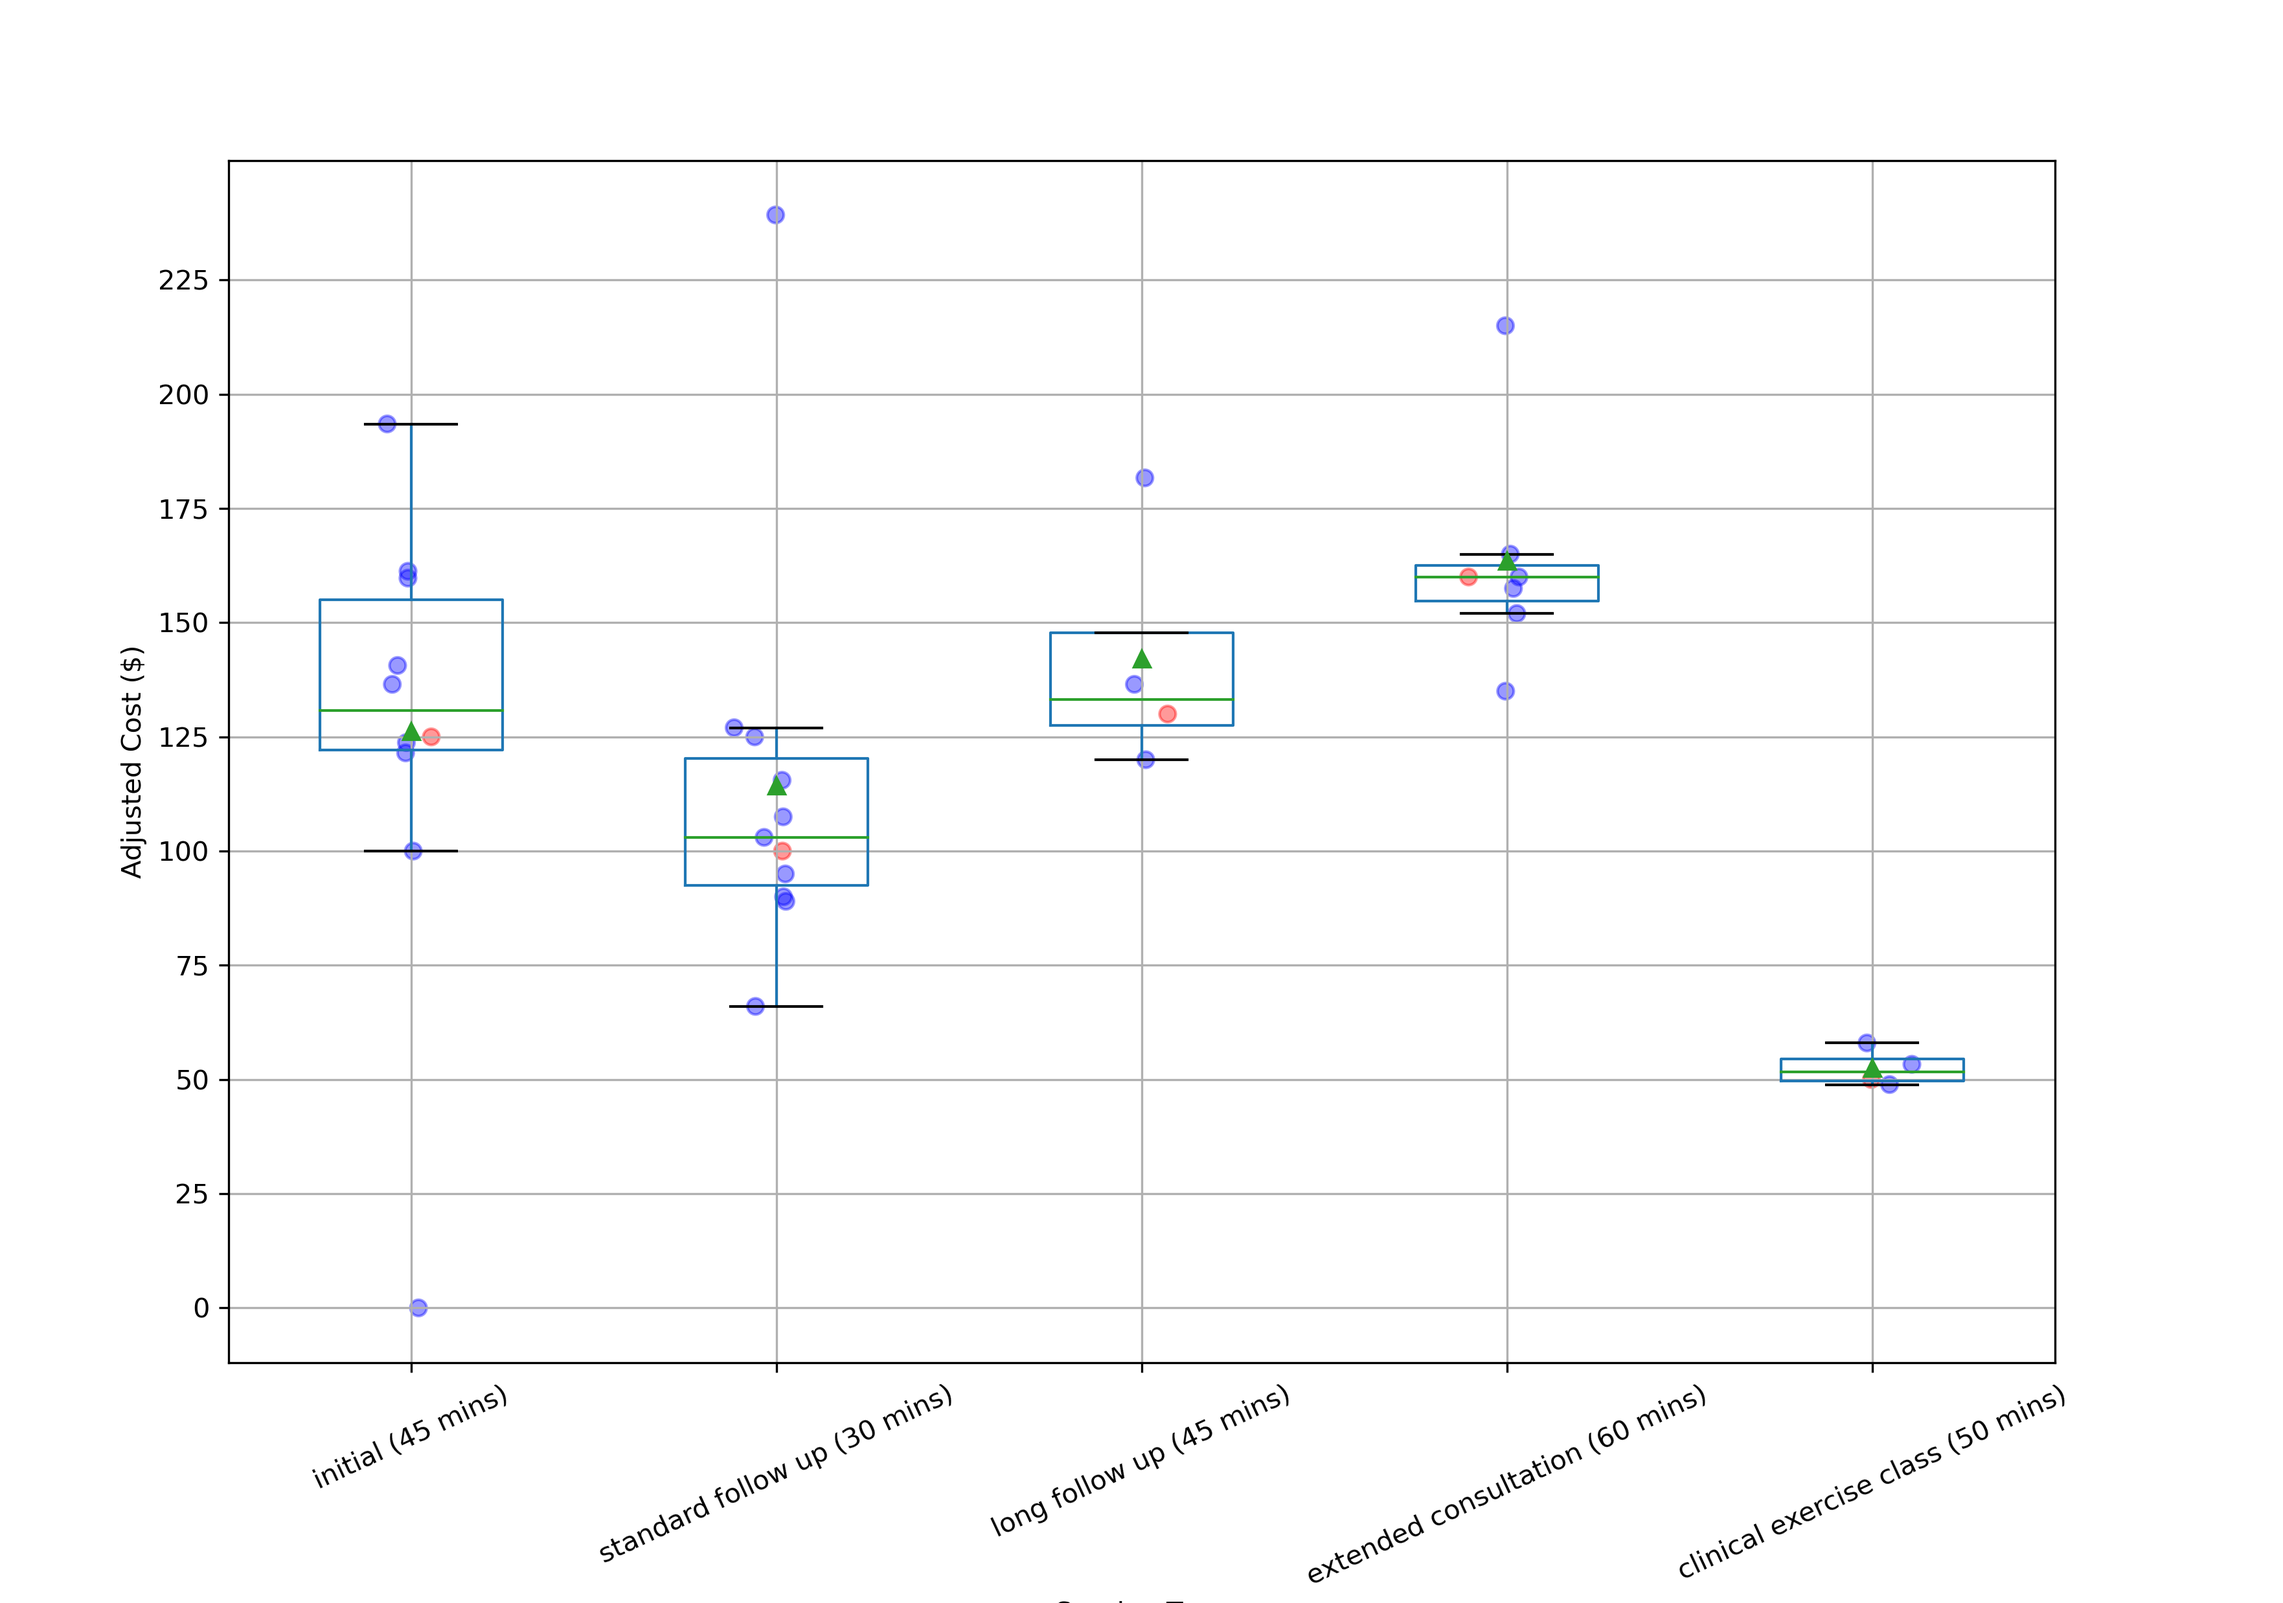
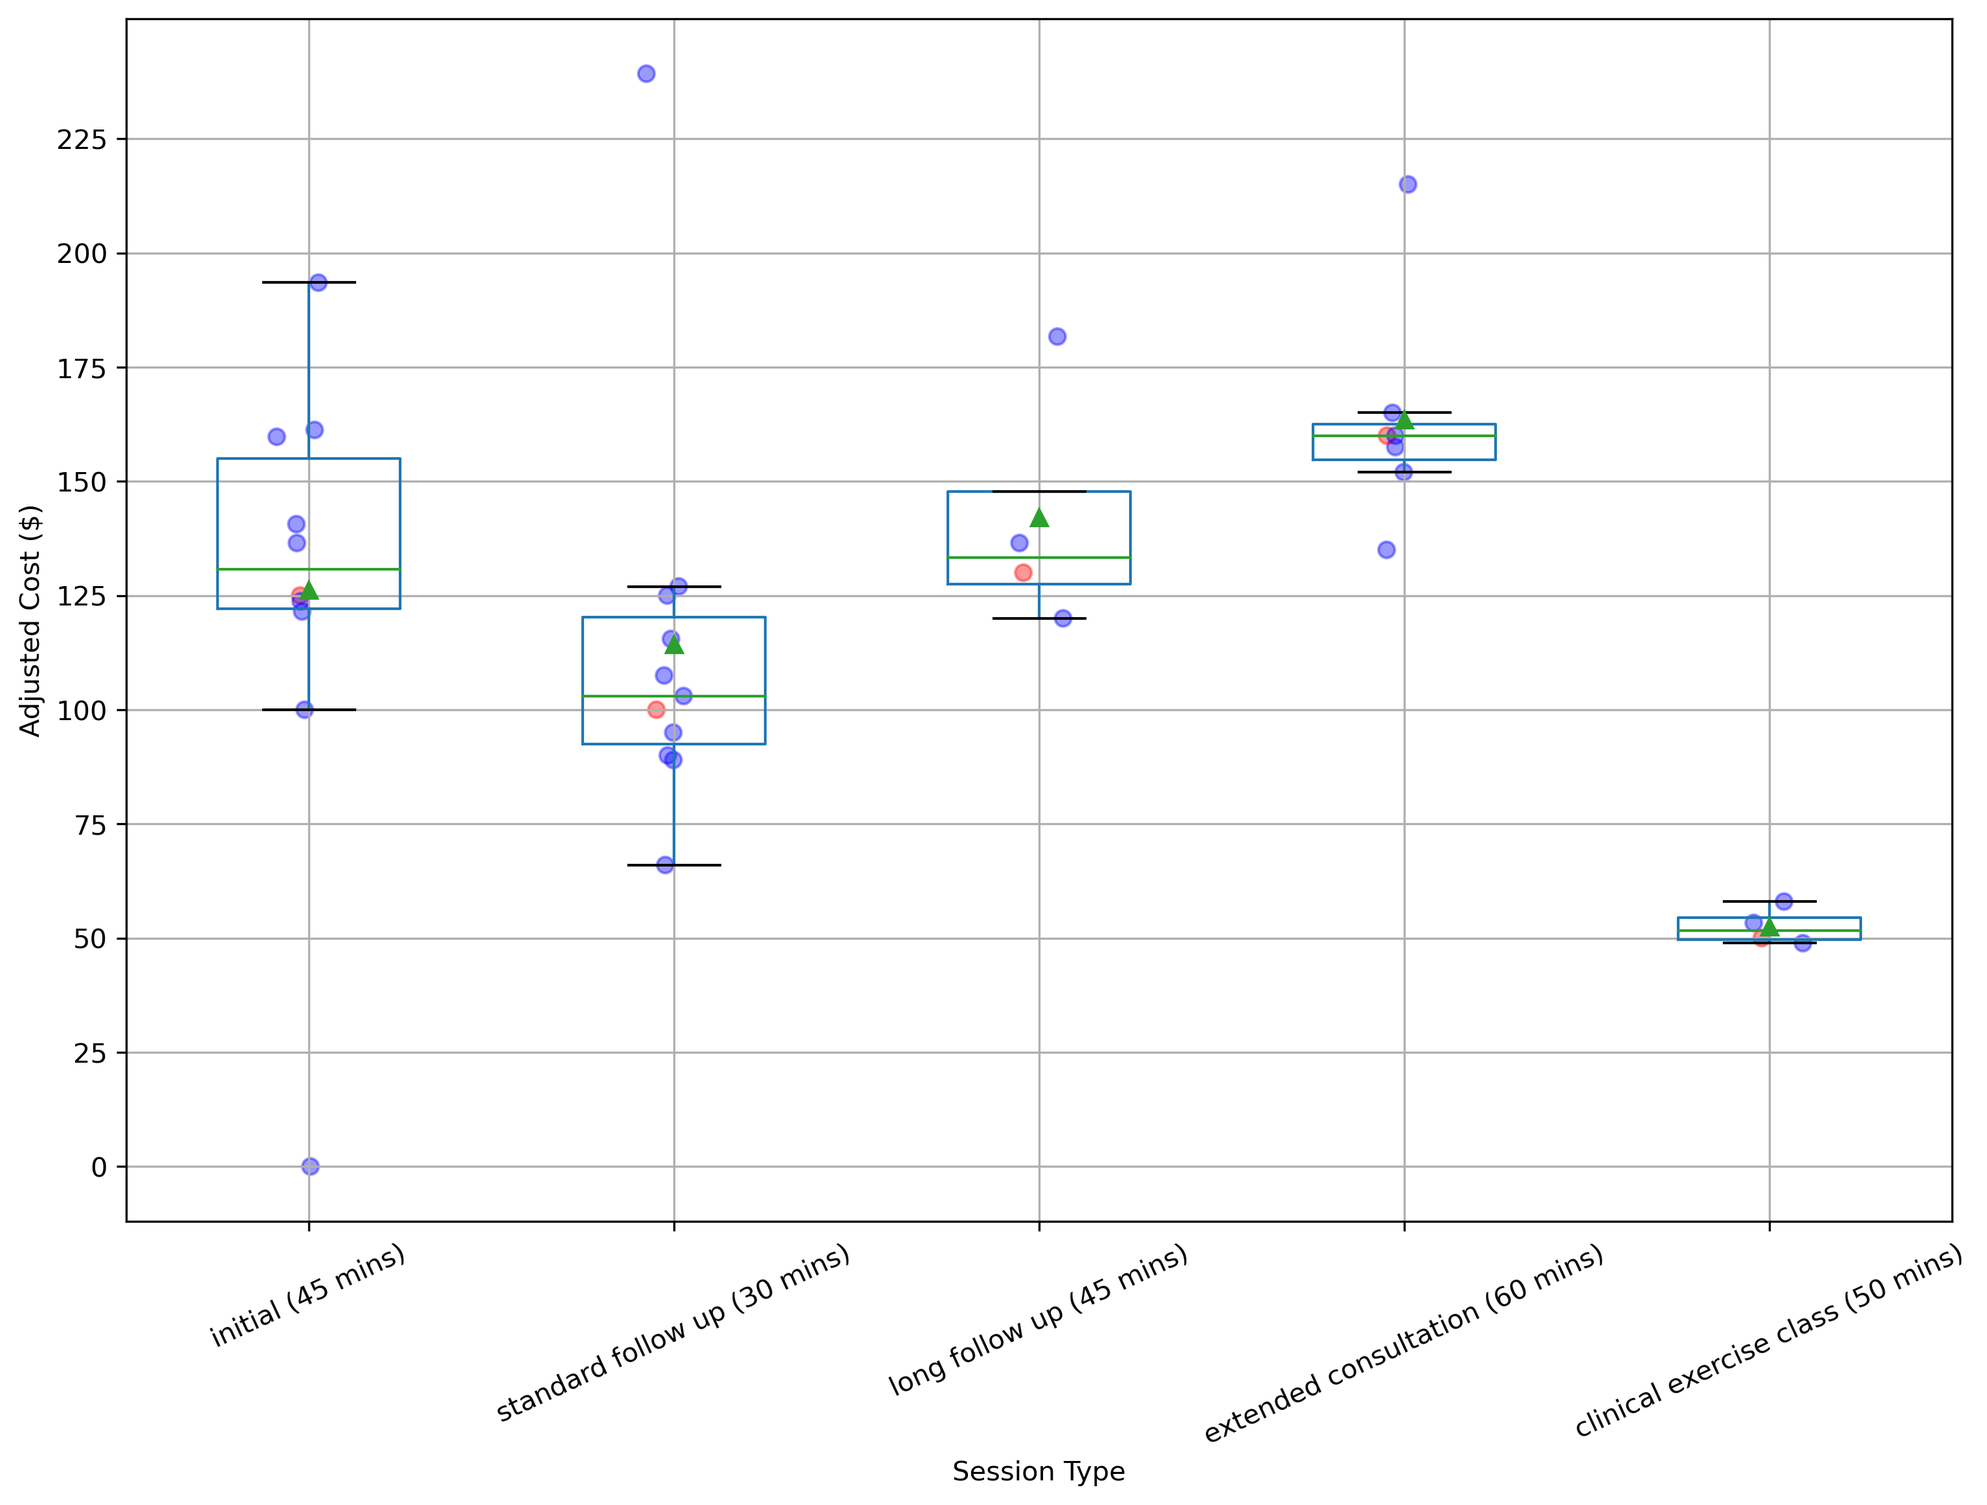
Fixed padding.

diff --git a/main.py b/main.py
@@ -63,9 +63,10 @@ if __name__ == "__main__":
     plt.scatter(df["xs"], df["Standardised Fee ($)"], alpha=0.4, c=df["colour"])
 
     plt.savefig(
-        'figures/physio_fees_boxplot_grid.png',
+        "figures/physio_fees_boxplot_grid.png",
         dpi=300,
-        format='png',
-        facecolor='White',
+        format="png",
+        facecolor="White",
+        bbox_inches="tight",
         transparent=False,
     )
